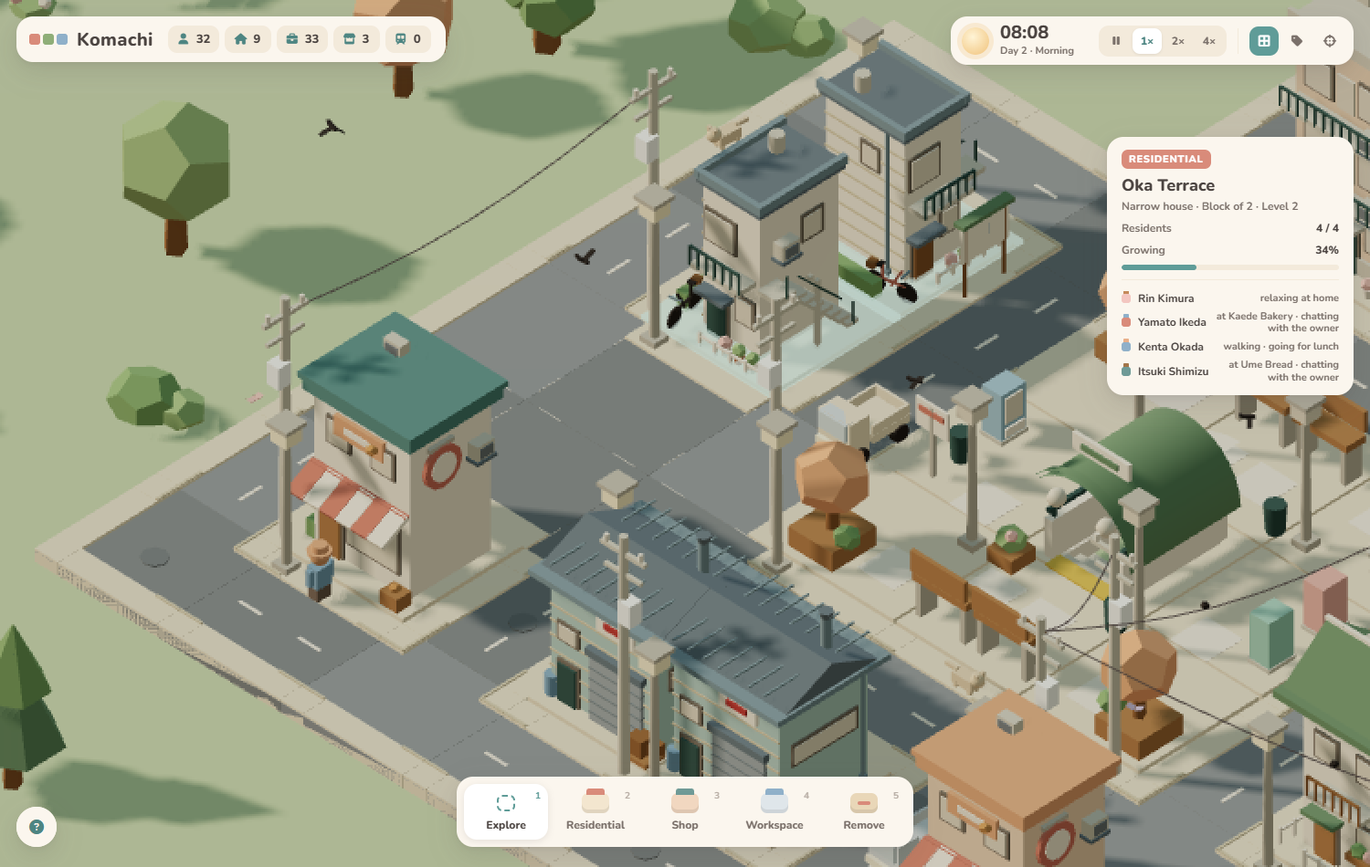
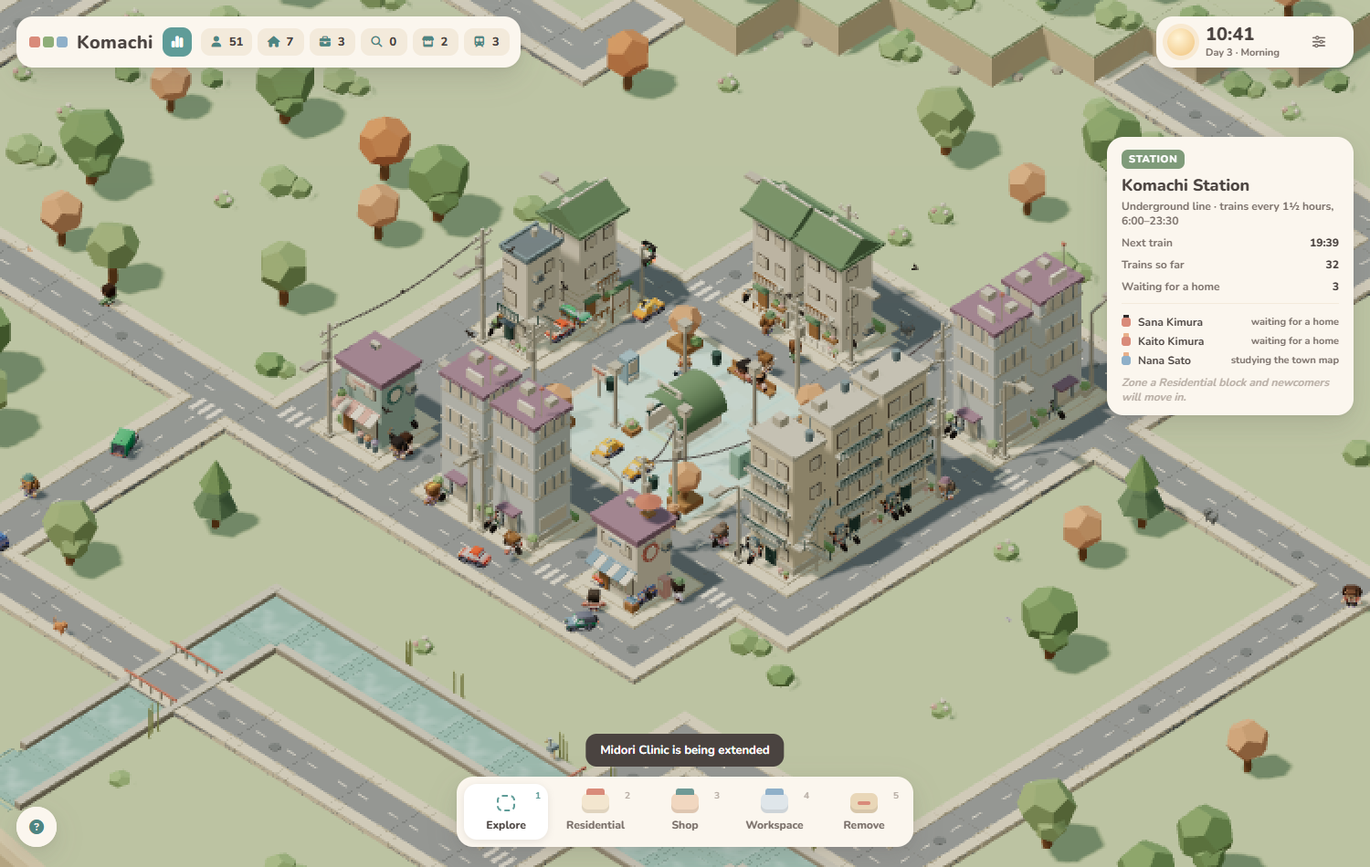
polishing and fix the riverbank again along with the hud

diff --git a/src/island.js b/src/island.js
@@ -205,6 +205,19 @@ const hillCentre = { x: HX, z: HZ, fx: -hct, fz: -hst, top: hillTop };
 const key = (i, j) => i + ',' + j;
 const canalCells = new Set(), canalOrder = [], coastCells = new Set();
 {
+  // the coast road: sixteen points just inside the beach joined by L-shaped runs (grid roads cannot go diagonal, and
+  // long straight runs with a few corners read far better than a one-cell sawtooth). Hill cells break the road.
+  const stops = []; for (let k = 0; k < 8; k++) { const [x, z] = coastPoint((k + 0.5) / 8 * TAU, -3.0); stops.push([Math.floor(x + HALF), Math.floor(z + HALF)]); }   // eight stops: a rounded rectangle, corners on the diagonals
+  const skipRoad = (i, j) => !!terraceInfo(i, j) || coastDist(cx(i), cz(j)) <= 0.8;
+  const run = (a, b) => { const out = []; let [i, j] = a; while (i !== b[0]) { i += Math.sign(b[0] - i); out.push([i, j]); } while (j !== b[1]) { j += Math.sign(b[1] - j); out.push([i, j]); } return out; };
+  for (let k = 0; k < 8; k++) {
+    const a = stops[k], b = stops[(k + 1) % 8];
+    const viaX = run(a, b), viaZ = run(a, [a[0], b[1]]).concat(run([a[0], b[1]], b));   // corner at (b.x, a.z) or (a.x, b.z)
+    const inland = path => path.reduce((m, [i, j]) => Math.min(m, coastDist(cx(i), cz(j))), 99);
+    const path = inland(viaZ) > inland(viaX) ? viaZ : viaX;
+    for (const [i, j] of [a, ...path]) if (!skipRoad(i, j)) coastCells.add(key(i, j));
+  }
+
   const base = pierTheta !== null ? pierTheta : rng() * TAU;
   for (let attempt = 0; attempt < 12 && !canalCells.size; attempt++) {
     const th = base + (attempt % 2 ? -1 : 1) * Math.ceil(attempt / 2) * 0.35, phi = rng() * TAU;
@@ -218,20 +231,10 @@ const canalCells = new Set(), canalOrder = [], coastCells = new Set();
       const path = (k % 2 ? viaZ : viaX);
       for (const c of [a, ...path]) { const x = cx(c[0]), z = cz(c[1]); if (c[0] < 0 || c[1] < 0 || c[0] >= N || c[1] >= N || coastDist(x, z) <= 0.8) continue; if (terraceInfo(c[0], c[1]) || Math.hypot(x, z) < 7.2) bad = true; const kk = key(...c); if (!seen.has(kk)) { seen.add(kk); cellsHere.push(c); } }
     }
+    // never run along the coast road: two consecutive canal cells on it would make a bridge with water both sides
+    for (let k = 0; k + 1 < cellsHere.length && !bad; k++) if (coastCells.has(key(...cellsHere[k])) && coastCells.has(key(...cellsHere[k + 1]))) bad = true;
     if (bad || cellsHere.length < 8) continue;
     for (const c of cellsHere) { canalCells.add(key(...c)); canalOrder.push(c); }
-  }
-  // the coast road: sixteen points just inside the beach joined by L-shaped runs (grid roads cannot go diagonal, and
-  // long straight runs with a few corners read far better than a one-cell sawtooth). Hill cells break the road.
-  const stops = []; for (let k = 0; k < 8; k++) { const [x, z] = coastPoint((k + 0.5) / 8 * TAU, -3.0); stops.push([Math.floor(x + HALF), Math.floor(z + HALF)]); }   // eight stops: a rounded rectangle, corners on the diagonals
-  const skipRoad = (i, j) => !!terraceInfo(i, j) || coastDist(cx(i), cz(j)) <= 0.8;
-  const run = (a, b) => { const out = []; let [i, j] = a; while (i !== b[0]) { i += Math.sign(b[0] - i); out.push([i, j]); } while (j !== b[1]) { j += Math.sign(b[1] - j); out.push([i, j]); } return out; };
-  for (let k = 0; k < 8; k++) {
-    const a = stops[k], b = stops[(k + 1) % 8];
-    const viaX = run(a, b), viaZ = run(a, [a[0], b[1]]).concat(run([a[0], b[1]], b));   // corner at (b.x, a.z) or (a.x, b.z)
-    const inland = path => path.reduce((m, [i, j]) => Math.min(m, coastDist(cx(i), cz(j))), 99);
-    const path = inland(viaZ) > inland(viaX) ? viaZ : viaX;
-    for (const [i, j] of [a, ...path]) if (!skipRoad(i, j)) coastCells.add(key(i, j));
   }
 }
 const isCanal = (i, j) => canalCells.has(key(i, j)), isCoastRoad = (i, j) => coastCells.has(key(i, j));
@@ -244,14 +247,25 @@ const isCanal = (i, j) => canalCells.has(key(i, j)), isCoastRoad = (i, j) => coa
     const x = cx(i), z = cz(j), nb = DIRS.map(([di, dj]) => isCanal(i + di, j + dj) || coastDist(cx(i + di), cz(j + dj)) <= 0.8);
     g.push(box(0.78, 0.02, 0.78, PAL.canal, x, WATER, z)); wat.push(box(0.78, 0.01, 0.78, PAL.canal, x, WATER + 0.008, z));
     g.push(box(0.9, 0.02, 0.9, PAL.canalBed, x, WATER - 0.012, z));   // a dark bed below the water
+    let mouthK = -1, mouthL = 99;
+    nb.forEach((open, k) => { if (!open || isCanal(i + DIRS[k][0], j + DIRS[k][1])) return; const [di, dj] = DIRS[k]; let L = 0.5; while (L < 6 && coastDist(x + di * L, z + dj * L) > 0) L += 0.1; if (L < mouthL) { mouthL = L; mouthK = k; } });
     nb.forEach((open, k) => { const [di, dj] = DIRS[k]; if (open) { g.push(box(di ? 0.12 : 0.78, 0.02, di ? 0.78 : 0.12, PAL.canal, x + di * 0.44, WATER, z + dj * 0.44));
-        if (!isCanal(i + di, j + dj)) {   // the mouth: a spillway runs down the beach to the sea
-          const L = 2.2, drop = WATER + 0.7, ang = Math.atan2(drop, L); const mk = (w, h, d, col) => { const b = new THREE.BoxGeometry(w, h, d); b.rotateX(di ? 0 : (dj > 0 ? ang : -ang)); b.rotateZ(di ? (di > 0 ? -ang : ang) : 0); return colorize(b, col); };
-          const px = x + di * (0.5 + L / 2), pz = z + dj * (0.5 + L / 2), py = WATER - drop / 2;
-          const wb = mk(di ? L : 0.78, 0.02, di ? 0.78 : L, PAL.canal); wb.translate(px, py, pz); g.push(wb);
-          const bed = mk(di ? L : 0.9, 0.02, di ? 0.9 : L, PAL.canalBed); bed.translate(px, py - 0.012, pz); g.push(bed);
-        }
-      }
+        if (!isCanal(i + di, j + dj) && k !== mouthK) { g.push(box(di ? 0.11 : 1, TOP, di ? 1 : 0.11, wall, x + di * 0.445, TOP / 2, z + dj * 0.445)); g.push(box(di ? 0.13 : 1, 0.025, di ? 1 : 0.13, coping, x + di * 0.445, TOP + 0.012, z + dj * 0.445)); }   // a second sea-facing side is walled
+        if (!isCanal(i + di, j + dj) && k === mouthK) {   // the mouth: the channel runs on to the coastline, then the water steps down the beach into the sea
+          const L = mouthL;
+          const cl = L - 0.5, cpx = x + di * (0.5 + cl / 2), cpz = z + dj * (0.5 + cl / 2);
+          g.push(box(di ? cl : 0.78, 0.02, di ? 0.78 : cl, PAL.canal, cpx, WATER, cpz)); wat.push(box(di ? cl : 0.78, 0.01, di ? 0.78 : cl, PAL.canal, cpx, WATER + 0.008, cpz));
+          g.push(box(di ? cl : 0.9, 0.02, di ? 0.9 : cl, PAL.canalBed, cpx, WATER - 0.012, cpz));
+          for (const s of [-1, 1]) { g.push(box(di ? cl : 0.11, TOP, di ? 0.11 : cl, wall, cpx + (di ? 0 : s * 0.445), TOP / 2, cpz + (di ? s * 0.445 : 0))); g.push(box(di ? cl : 0.13, 0.025, di ? 0.13 : cl, coping, cpx + (di ? 0 : s * 0.445), TOP + 0.012, cpz + (di ? s * 0.445 : 0))); }
+          let B = 0.2; while (B < 3 && coastDist(x + di * (L + B), z + dj * (L + B)) > -beachExtra(Math.atan2((z + dj * (L + B)) / SZ, (x + di * (L + B)) / SX))) B += 0.1;   // the beach's width here
+          const steps = [[B / 2, B, -0.48]];   // one step down onto the beach; the sea takes it from there   // [distance past the shore to the step's centre, its length, its water height]
+          for (const [d, len, wy] of steps) {
+            const px = x + di * (L + d), pz = z + dj * (L + d);
+            g.push(box(di ? len : 0.78, 0.02, di ? 0.78 : len, PAL.canal, px, wy, pz)); g.push(box(di ? len : 0.86, 0.02, di ? 0.86 : len, PAL.canalBed, px, wy - 0.012, pz));
+            g.push(box(0.78, 0.03, 0.78, PAL.foam, x + di * (L + d - len / 2 + 0.12), wy + 0.01, z + dj * (L + d - len / 2 + 0.12)));   // a lip of foam where the water lands
+          }
+          for (const s of [-1, 1]) g.push(blob(0.12, wall, x + di * (L + 0.1) + (di ? 0 : s * 0.42), -0.42, z + dj * (L + 0.1) + (dj ? 0 : s * 0.42), 0, 0.6));   // rocks at the drop
+        }      }
       else { g.push(box(di ? 0.11 : 1, TOP, di ? 1 : 0.11, wall, x + di * 0.445, TOP / 2, z + dj * 0.445)); g.push(box(di ? 0.13 : 1, 0.025, di ? 1 : 0.13, coping, x + di * 0.445, TOP + 0.012, z + dj * 0.445)); } });
     if (cellHash(i * 3, j * 7) < 0.45) { const side = DIRS.findIndex((_, k) => !nb[k]); if (side >= 0) { const [di, dj] = DIRS[side]; for (let k = 0; k < 4; k++) veg.push(cyl(0.012, 0.02, 0.4 + cellHash(i + k, j) * 0.25, '#b9c084', x + di * 0.56 + (cellHash(k, i) - 0.5) * 0.25 * (dj ? 1 : 0.3), 0.2, z + dj * 0.56 + (cellHash(j, k) - 0.5) * 0.25 * (di ? 1 : 0.3), 4)); } }
   }

diff --git a/src/world.js b/src/world.js
@@ -141,7 +141,7 @@ function rebuildRoads() {
   for (const c of cells) {
     if (c.type !== 'road') continue;
     const x = cx(c.i), z = cz(c.j), h = hash(c.i, c.j);
-    const asp = h < 0.5 ? PAL.asphalt : PAL.asphalt2;
+    const asp = PAL.asphalt;   // one shade everywhere (the two-tone patchwork read as different roads)
     if (c.ramp) {   // a slope road up to the next terrace: tilted asphalt with a pavement band each side
       const { di, dj, h0, h1 } = c.ramp, dh = h1 - h0, L = Math.hypot(1, dh), ang = Math.atan2(dh, 1), ry = Math.atan2(di, dj);
       const tilt = geo => { geo.rotateX(-ang); geo.rotateY(ry); return geo; };
@@ -156,17 +156,21 @@ function rebuildRoads() {
     }
     const gy = c.h || 0, g0 = g.length, lg0 = lg.length, hd0 = lampHeads.length, gl0 = lampGlows.length, cn0 = cones.length, po0 = poles.length;
     if (c.bridge) {   // a deck over the canal: asphalt, a pavement each side, railings, and stone piers down to the water
-      const rd = (i, j) => { const n = cell(i, j); return !!n && n.type === 'road' && !n.canal; };
-      const along = rd(c.i + 1, c.j) || rd(c.i - 1, c.j) ? 0 : 1;   // 0: the bridge runs east–west, 1: north–south
-      g.push(box(1, 0.035, 1, PAL.asphalt, x, 0.0625, z));   // a thin deck held clear of the water, so the canal runs on beneath
-      for (const s of [-1, 1]) {
-        const sx = along ? s * 0.405 : 0, sz = along ? 0 : s * 0.405;
-        g.push(box(along ? 0.19 : 1, 0.055, along ? 1 : 0.19, PAL.sidewalk, x + sx, 0.0725, z + sz));
-        for (const t of [-0.4, -0.2, 0, 0.2, 0.4]) g.push(box(0.025, 0.14, 0.025, PAL.lamp, x + (along ? sx * 1.1 : t), 0.17, z + (along ? t : sz * 1.1)));
-        g.push(box(along ? 0.03 : 1, 0.025, along ? 1 : 0.03, PAL.roofRose, x + (along ? sx * 1.1 : 0), 0.245, z + (along ? 0 : sz * 1.1)));
-        for (const t of [-0.3, 0.3]) g.push(box(0.09, 0.14, 0.09, PAL.concrete2, x + (along ? sx * 0.8 : t), -0.02, z + (along ? t : sz * 0.8)));   // piers standing in the water
+      // the deck runs across the water: if the canal continues east/west of this cell the bridge runs north–south, and
+      // vice versa; at a bend (canal on both axes) or a dead end, fall back to the side that has a street
+      const cn = (i, j) => { const n = cell(i, j); return !!n && n.canal; }, rd = (i, j) => { const n = cell(i, j); return !!n && n.type === 'road' && !n.canal; };
+      const canalX = cn(c.i + 1, c.j) || cn(c.i - 1, c.j), canalZ = cn(c.i, c.j + 1) || cn(c.i, c.j - 1);
+      const along = canalX !== canalZ ? (canalX ? 1 : 0) : (rd(c.i, c.j + 1) || rd(c.i, c.j - 1) ? 1 : 0);   // 0: bridge runs east–west, 1: north–south
+      g.push(box(1, 0.035, 1, PAL.asphalt, x, 0.0625, z));   // a thin deck held clear of the water, so the canal runs on beneath; no centre line on a bridge
+      // pavements along the deck; a railing on every side that has no street, so a bridge on a bend stays open where the road turns
+      for (const s of [-1, 1]) { const sx = along ? s * 0.405 : 0, sz = along ? 0 : s * 0.405; g.push(box(along ? 0.19 : 1, 0.055, along ? 1 : 0.19, PAL.sidewalk, x + sx, 0.0725, z + sz)); }
+      for (const [di, dj] of DIR4) {
+        if (rd(c.i + di, c.j + dj)) continue;
+        const rx = x + di * 0.445, rz = z + dj * 0.445;
+        for (const t of [-0.4, -0.2, 0, 0.2, 0.4]) g.push(box(0.025, 0.14, 0.025, PAL.lamp, rx + (di ? 0 : t), 0.17, rz + (dj ? 0 : t)));
+        g.push(box(di ? 0.03 : 1, 0.025, dj ? 0.03 : 1, PAL.roofRose, rx, 0.245, rz));
+        if (cn(c.i + di, c.j + dj)) for (const t of [-0.3, 0.3]) g.push(box(0.09, 0.14, 0.09, PAL.concrete2, x + di * 0.36 + (di ? 0 : t), -0.02, z + dj * 0.36 + (dj ? 0 : t)));   // piers on the water sides
       }
-      for (const o of [-0.25, 0.25]) g.push(box(along ? 0.025 : 0.18, 0.004, along ? 0.18 : 0.025, PAL.cream2, x + (along ? 0 : o), 0.082, z + (along ? o : 0)));
       continue;
     }
     const nb = DIR4.map(([di, dj]) => { const n = cell(c.i + di, c.j + dj); return n && n.type === 'road'; });
@@ -188,9 +192,9 @@ function rebuildRoads() {
       if (di + dj > 0) for (const o of [-0.25, 0.25]) g.push(box(di ? 0.03 : 0.22, 0.004, di ? 0.22 : 0.03, PAL.cream2, x + di * 0.5 + dj * o, 0.082, z + dj * 0.5 + di * o));
     }
     const deg = open.filter(Boolean).length, isDbl = dbl.some(Boolean);
-    // centre line on straight two-way stretches
-    if (!isDbl && deg === 2 && open[0] && open[2]) for (const dz of [-0.24, 0.24]) g.push(box(0.025, 0.004, 0.18, PAL.cream2, x, 0.082, z + dz));
-    if (!isDbl && deg === 2 && open[1] && open[3]) for (const dx of [-0.24, 0.24]) g.push(box(0.18, 0.004, 0.025, PAL.cream2, x + dx, 0.082, z));
+    // a centre dash along every open arm, so straights, corners and junctions all carry the line; the zebra arm is left clear
+    const zebraArm = deg >= 3 && !isDbl && h > 0.45 ? (open[0] ? 0 : 2) : -1;
+    if (!isDbl && deg >= 2) for (let k = 0; k < 4; k++) if (open[k] && k !== zebraArm) { const [di, dj] = DIR4[k]; g.push(box(di ? 0.18 : 0.025, 0.004, di ? 0.025 : 0.18, PAL.cream2, x + di * 0.3, 0.082, z + dj * 0.3)); }
     if (deg === 2 && h > 0.7) g.push(cyl(0.09, 0.09, 0.012, '#858a8e', x + (h - 0.85) * 0.4, 0.083, z + (h - 0.8) * 0.4, 8));
     // zebra crossing across one arm of a real junction
     if (deg >= 3 && !isDbl && h > 0.45) { const zs = open[0] ? -1 : 1; for (let k = -1; k <= 1; k++) g.push(box(0.08, 0.005, 0.3, PAL.cream2, x + k * 0.16, 0.083, z + zs * 0.62 * 0.6)); }

diff --git a/src/styles.css b/src/styles.css
@@ -12,7 +12,7 @@
   .card{position:fixed;background:var(--cream);border-radius:18px;box-shadow:var(--shadow);padding:12px 16px;pointer-events:auto}
   #hud{position:fixed;left:18px;right:18px;top:18px;display:flex;justify-content:space-between;align-items:flex-start;gap:12px;pointer-events:none}
   #hud .card{position:static;pointer-events:auto;height:56px;box-sizing:border-box;display:flex;align-items:center}
-  #brand{gap:16px;padding:0 16px 0 14px}
+  #brand{gap:10px;padding:0 12px 0 14px}
   #brand h1{margin:0;font-size:20px;font-weight:800;letter-spacing:.4px;display:flex;align-items:center;gap:8px;white-space:nowrap}
   #brand h1 i{display:inline-block;width:12px;height:12px;border-radius:3px;background:var(--rose);box-shadow:15px 0 0 var(--sage), 30px 0 0 var(--blue)}
   #brand h1 span{margin-left:32px}
@@ -31,8 +31,9 @@
   .seg button.on{background:#fff;color:var(--teal2);box-shadow:0 1px 3px rgba(0,0,0,.08)}
   .seg button:hover{color:var(--ink)}
   .divider-v{width:1px;height:28px;background:var(--cream2)}
-  #settings{display:flex;gap:4px;max-width:120px;transition:max-width .28s ease,opacity .2s ease}   /* overflow stays visible so tooltips can hang below */
-  #settings.collapsed{max-width:0;opacity:0;pointer-events:none;overflow:hidden}
+  .fold{display:flex;align-items:center;gap:6px;max-width:420px;transition:max-width .28s ease,opacity .2s ease}   /* overflow stays visible so tooltips can hang below */
+  .fold.collapsed{max-width:0;opacity:0;pointer-events:none;overflow:hidden}
+  #settings{gap:8px}
   #btn-settings.on{background:var(--cream2);color:var(--ink)}
   .icon-btn{border:0;background:transparent;width:32px;height:32px;border-radius:10px;color:var(--ink2);font-size:14px;cursor:pointer;display:flex;align-items:center;justify-content:center}
   .icon-btn:hover{background:var(--cream2);color:var(--ink)}
@@ -118,4 +119,4 @@
   #loading{position:fixed;inset:0;display:flex;align-items:center;justify-content:center;background:#cfe8dd;color:var(--ink2);font-weight:800;font-size:14px;z-index:9;transition:opacity .4s}
   #loading.gone{opacity:0;pointer-events:none}
   .tag{position:fixed;transform:translate(-50%,-100%);background:rgba(251,246,238,.92);color:var(--ink);font-size:11px;font-weight:800;padding:2px 7px;border-radius:7px;pointer-events:none;white-space:nowrap;box-shadow:0 1px 4px rgba(0,0,0,.1)}
-  @media (max-width:720px){#hint{display:none}#hud{flex-direction:column;align-items:stretch}#clock{justify-content:space-between}#inspect{top:auto;bottom:100px;width:240px}}
+  @media (max-width:720px){#hint{display:none}#hud{left:8px;right:8px;top:8px;gap:6px}#hud .card{height:42px;border-radius:14px}#brand{padding:0 6px 0 8px;gap:4px}#brand h1 i{width:9px;height:9px;margin-right:22px;box-shadow:12px 0 0 var(--sage),24px 0 0 var(--blue)}#stats{gap:3px}#stats .stat{padding:4px 6px;font-size:11px;gap:4px}#stats .stat i{font-size:10px}.icon-btn{width:26px;height:26px;font-size:12px}#clock{padding:0 6px;gap:6px}#sun{width:18px;height:18px;box-shadow:0 0 0 3px rgba(240,194,122,.25)}#sun.night{box-shadow:0 0 0 3px rgba(167,184,221,.3)}#clock-text{min-width:60px}#time{font-size:13px}#day{font-size:9px}.seg button{min-width:24px;height:22px;font-size:10px;padding:0 5px}.divider-v{height:22px}#inspect{top:auto;bottom:84px;width:220px}#inspect .row{font-size:11px}#tools{bottom:10px;gap:2px;padding:5px;border-radius:14px;max-width:calc(100vw - 16px)}.tool{min-width:52px;padding:6px 6px 5px;font-size:10px;gap:3px;border-radius:10px}.tool .sw{width:22px;height:16px;border-radius:5px}.tool .sw::after{top:-4px;height:5px;left:4px;right:4px}.tool kbd{display:none}}

diff --git a/index.html b/index.html
@@ -17,7 +17,8 @@
 <header id="hud">
   <div id="brand" class="card">
     <h1><i></i><span>Komachi</span></h1>
-    <div id="stats">
+    <button class="icon-btn on" id="btn-stats" data-tip="Town figures" aria-expanded="true"><i class="fa-solid fa-chart-simple"></i></button>
+    <div id="stats" class="fold">
       <span class="stat" data-tip="People living here"><i class="fa-solid fa-user"></i><b id="s-pop">0</b></span>
       <span class="stat" data-tip="Finished homes"><i class="fa-solid fa-house"></i><b id="s-homes">0</b></span>
       <span class="stat" data-tip="Open jobs at shops and workspaces"><i class="fa-solid fa-briefcase"></i><b id="s-jobs">0</b></span>
@@ -29,15 +30,15 @@
   <div id="clock" class="card">
     <div id="sun"></div>
     <div id="clock-text"><div id="time">07:00</div><div id="day">Day 1 · Morning</div></div>
-    <div class="seg" id="speed">
-      <button data-s="0" data-tip="Pause (Space)"><i class="fa-solid fa-pause"></i></button>
-      <button data-s="1" class="on" data-tip="Normal speed">1×</button>
-      <button data-s="2" data-tip="Double speed">2×</button>
-      <button data-s="4" data-tip="Fast">4×</button>
-    </div>
-    <div class="divider-v"></div>
-    <button class="icon-btn" id="btn-settings" data-tip="View options" aria-expanded="false"><i class="fa-solid fa-sliders"></i></button>
-    <div id="settings" class="collapsed">
+    <button class="icon-btn" id="btn-settings" data-tip="Speed and view options" aria-expanded="false"><i class="fa-solid fa-sliders"></i></button>
+    <div id="settings" class="fold collapsed">
+      <div class="seg" id="speed">
+        <button data-s="0" data-tip="Pause (Space)"><i class="fa-solid fa-pause"></i></button>
+        <button data-s="1" class="on" data-tip="Normal speed">1×</button>
+        <button data-s="2" data-tip="Double speed">2×</button>
+        <button data-s="4" data-tip="Fast">4×</button>
+      </div>
+      <div class="divider-v"></div>
       <button class="icon-btn on" id="btn-pixel" data-tip="Pixel look: render at half resolution"><i class="fa-solid fa-border-all"></i></button>
       <button class="icon-btn" id="btn-center" data-tip="Centre the camera on the station"><i class="fa-solid fa-crosshairs"></i></button>
       <button class="icon-btn" id="btn-reset" data-tip="Start a new island (the town saves itself as you play)"><i class="fa-solid fa-rotate-left"></i></button>

diff --git a/src/input.js b/src/input.js
@@ -38,7 +38,8 @@ ui.inspect.addEventListener('click', e => {
   if (b.dataset.follow === 'stop') { setFollow(null); return; }
   const t = pinned || hovered || (follow ? { res: follow } : null); if (t && t.res) { follow = t.res; pinned = t; }
 });
-document.getElementById('btn-settings').addEventListener('click', e => { const s = document.getElementById('settings'); const open = s.classList.toggle('collapsed') === false; e.currentTarget.classList.toggle('on', open); e.currentTarget.setAttribute('aria-expanded', String(open)); });
+for (const [btn, panel] of [['btn-settings', 'settings'], ['btn-stats', 'stats']]) document.getElementById(btn).addEventListener('click', e => { const s = document.getElementById(panel); const open = s.classList.toggle('collapsed') === false; e.currentTarget.classList.toggle('on', open); e.currentTarget.setAttribute('aria-expanded', String(open)); });
+if (innerWidth < 720) { document.getElementById('stats').classList.add('collapsed'); const b = document.getElementById('btn-stats'); b.classList.remove('on'); b.setAttribute('aria-expanded', 'false'); }   // phones: figures start folded so both cards fit side by side
 document.getElementById('btn-center').addEventListener('click', () => { follow = null; cam.target.set(0, 0, 0); cam.tView = 18; });
 // the controls card folds into a round icon button after a few seconds; click to unfold (it folds again on its own)
 {

diff --git a/CHANGELOG.md b/CHANGELOG.md
@@ -3,7 +3,10 @@
 All notable changes to Komachi are recorded here. The format follows
 [Keep a Changelog](https://keepachangelog.com/en/1.1.0/).
 
-## [Unreleased]
+
+## [Unreleased] - 2026-09-17
+
+Phases 4 and 4.5 plus the polish that went with them.
 
 ### Added
 
@@ -39,6 +42,49 @@ All notable changes to Komachi are recorded here. The format follows
   curved tails and five coat colours. Cats animate their legs while walking and glance
   around while idle. Includes an animated GLB export and an interactive model preview.
   Ears have compact proportions with pink insets fitted to their sloping front faces.
+
+### Changed
+
+- Bridges have no centre line, and their railings sit only on the sides without a street, so a bridge on a
+  bend stays open where the road turns; the canal mouth is a stepped cascade onto the beach and into the sea
+- Small screens keep the two HUD cards side by side with smaller chips, buttons and clock, the town figures
+  folded to start, and a compact tool bar without key hints
+- Fixed: bridge railings sometimes ran across the deck. Bridges now orient by where the canal is, and the
+  canal may no longer run along the coast road (which produced bridges with water on both sides)
+- HUD: the speed buttons moved inside the folding options panel (Space still pauses), and the town figures
+  on the left fold behind a chart button
+- Streets: one asphalt shade instead of the two-tone patchwork, and centre dashes run through corners and
+  junctions as well as straights (the zebra-crossing arm stays clear)
+- Canal: ripples drift along the water so it reads as flowing, the mouth spills down the beach into the
+  sea, and bridges are a thin deck on piers with the canal running visibly underneath
+- Hill terraces are less boxy: where a terrace drops to a lower level the wall gets a sloped earth skirt, and bushes and rocks are scattered along the base
+- The hover highlight fades with the daylight instead of glowing at night; no street lamps on the ring road
+  around the station (the plaza has its own); the plaza bins moved from the edges to two corners by the lamps
+- Fixed: routing let cars and walkers step between neighbouring roads on different terraces, so they drove
+  off retaining walls and floated over the street below. Roads now connect only at the same height, or
+  along a slope road's own axis; cables no longer span a terrace wall
+- Sea: the ripple texture tiles seamlessly (streaks drawn with wrap-around) so the water no longer shows
+  square patches; the fishing boat has a real wake, two foam lines fanning from the stern and rings that
+  spread in its trail, and sails bow-first
+- Hill blocks get a single street in front, on the side facing the town, instead of a full ring. Town-built
+  slopes and links are recomputed whenever blocks change: a slope never sits inside a block's ring or alongside
+  a street (so it cannot cut one), a slope down to the flat must be able to reach the town, and ground-level
+  links always end at a real street rather than at another slope's foot
+- Vehicles are now Kenney Car Kit models (CC0): sedans, hatchbacks, SUVs, vans, flatbed kei trucks and
+  taxis, each recoloured to its owner's colour with shading kept; the box cars remain the fallback. A sedan
+  is about one and a half people long
+- Traffic: cars and trucks slow down and queue behind a vehicle close ahead in their lane instead of
+  driving through it
+- Removed unused assets: the earlier custom character model and its Blender sources and previews, the
+  Kenney accessories and wheelchairs, stray atlas copies and an unreferenced doc screenshot
+- Kenney Mini Characters are now the default people; `?boxes` brings back the box figures (they also
+  remain the fallback if the models fail to load)
+
+## [0.2.0] - 2026-09-16
+
+Phases 1, 2, 3 and 3.5, built between 15 and 16 September.
+
+### Added
 
 - Rigged people from Kenney's Mini Characters (CC0) behind `?rigged`: eleven chibi variants, each person
   recoloured from their look by baking the colour atlas into vertex colours and repainting skin, hair,
@@ -131,30 +177,6 @@ All notable changes to Komachi are recorded here. The format follows
 
 ### Changed
 
-- Canal: ripples drift along the water so it reads as flowing, the mouth spills down the beach into the
-  sea, and bridges are a thin deck on piers with the canal running visibly underneath
-- Hill terraces are less boxy: where a terrace drops to a lower level the wall gets a sloped earth skirt, and bushes and rocks are scattered along the base
-- The hover highlight fades with the daylight instead of glowing at night; no street lamps on the ring road
-  around the station (the plaza has its own); the plaza bins moved from the edges to two corners by the lamps
-- Fixed: routing let cars and walkers step between neighbouring roads on different terraces, so they drove
-  off retaining walls and floated over the street below. Roads now connect only at the same height, or
-  along a slope road's own axis; cables no longer span a terrace wall
-- Sea: the ripple texture tiles seamlessly (streaks drawn with wrap-around) so the water no longer shows
-  square patches; the fishing boat has a real wake, two foam lines fanning from the stern and rings that
-  spread in its trail, and sails bow-first
-- Hill blocks get a single street in front, on the side facing the town, instead of a full ring. Town-built
-  slopes and links are recomputed whenever blocks change: a slope never sits inside a block's ring or alongside
-  a street (so it cannot cut one), a slope down to the flat must be able to reach the town, and ground-level
-  links always end at a real street rather than at another slope's foot
-- Vehicles are now Kenney Car Kit models (CC0): sedans, hatchbacks, SUVs, vans, flatbed kei trucks and
-  taxis, each recoloured to its owner's colour with shading kept; the box cars remain the fallback. A sedan
-  is about one and a half people long
-- Traffic: cars and trucks slow down and queue behind a vehicle close ahead in their lane instead of
-  driving through it
-- Removed unused assets: the earlier custom character model and its Blender sources and previews, the
-  Kenney accessories and wheelchairs, stray atlas copies and an unreferenced doc screenshot
-- Kenney Mini Characters are now the default people; `?boxes` brings back the box figures (they also
-  remain the fallback if the models fail to load)
 - Hill streets: a block's ring road now forms only on its own terrace, so a house against a retaining wall
   gets its street in front and nothing on the terraces above or below. A terrace street with no way down
   gets a slope road built by the town at the nearest edge toward the station (walking through the woods

diff --git a/README.md b/README.md
@@ -46,7 +46,7 @@ Other scripts:
 | Inspect | Hover any building or person. In Explore mode, click to pin the card |
 | Follow | Press Follow on a resident card, or click any name on a building card. Pan, zoom, a key or another tool lets go |
 | Rotate a building | Hover it and press R, or use the Rotate button on its card. The door turns to the next side that faces a street |
-| Time | Speed buttons in the clock card, or Space to pause |
+| Time | Speed buttons behind the sliders button in the clock card, or Space to pause |
 | Look | "Pixel look" toggles the half-resolution chunky render; the sliders button also holds Centre and Start over. `?boxes` in the URL brings back the original box people |
 
 Some things worth knowing:

diff --git a/docs/ROADMAP.md b/docs/ROADMAP.md
@@ -132,6 +132,8 @@ effect through the town instead.
 - Quality levels (shadows, pixel look, ambient density) chosen automatically on phones
 - Installable PWA with offline play
 - Touch-first tool bar layout at phone width
+- **Desktop app with Electron**: the same Vite build wrapped for Windows, macOS and Linux, with a native
+  window, saves in the user data folder instead of browser storage, and installers from CI
 
 ## ⬜ Phase 9 — Menus, saves UI, photo album
 

diff --git a/CLAUDE.md b/CLAUDE.md
@@ -121,5 +121,5 @@ Full detail per phase lives in docs/ROADMAP.md; keep both in step when a phase i
    5.5 Civic zone: substation, water works, recycling centre (visible effects only, nothing gated)
 6. Weather, gentle events, festivals, tourism
 7. Farming and fishing
-8. Mobile quality levels, PWA
+8. Mobile quality levels, PWA, Electron desktop app
 9. Menus, saves UI, photo album
